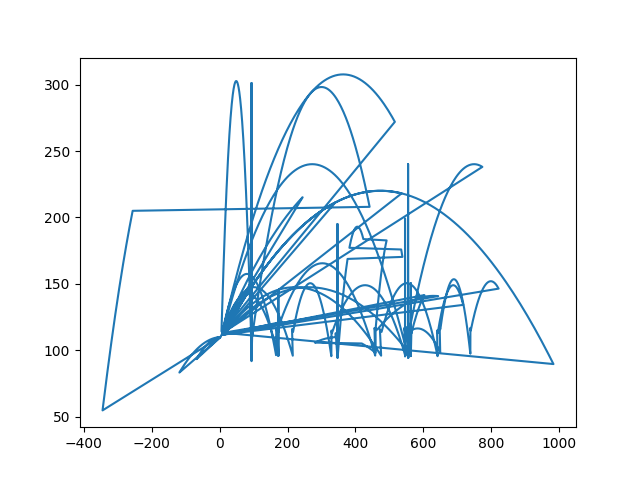
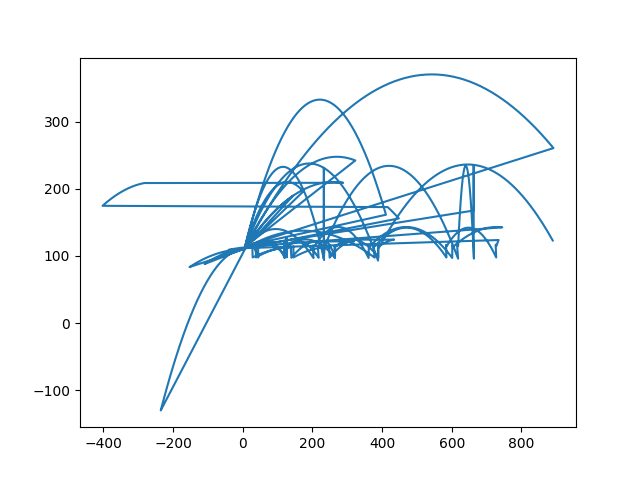
improved input logic

diff --git a/prototype2.py b/prototype2.py
@@ -36,29 +36,35 @@ class Ball():
         return mousex,mousey
     
     def movement(self,ball_r2,hvelocity,vvelocity,duration,first,back):
-        while pygame.Rect.contains(ground,ball_r2) == False: # needs to show the motion also
-            if first == True:
-                mag = math.sqrt(hvelocity**2+vvelocity**2)
-                velocities.append(mag)
-                first = False
-            duration+=0.1
-            time.append(duration)
-            distancex = (hvelocity/2)*duration            
-            distancey = ((vvelocity/2)*duration)+((-4.9 * (duration**2))/2)
-            if back == True:
-                newx = ((b.ball_r.x)-distancex)
-                back = False
-            else:
-                newx = ((b.ball_r.x)+distancex)
-            x.append(newx)
-            newy = (b.ball_r.y-distancey)
-            y.append(height-newy)
-            ball_r2 = pygame.Rect(newx,newy,10,10)
-            t.sleep(0.1)   
+        if first == True:
+            statichvel = hvelocity # changing velocity
+            staticvvel = vvelocity
+            mag = math.sqrt(statichvel**2+staticvvel**2)
+            velocities.append(mag)
+            first = False
+        duration+=0.1
+        time.append(duration)
+        distancex = (statichvel/2)*duration            
+        distancey = ((staticvvel/2)*duration)+((-4.9 * (duration**2))/2)
+        if back == True:
+            newx = ((b.ball_r.x)-distancex)
+            back = False
+        else:
+            newx = ((b.ball_r.x)+distancex)
+        x.append(newx)
+        newy = (b.ball_r.y-distancey)
+        y.append(height-newy)
+        ball_r2 = pygame.Rect(newx,newy,10,10)
+        pygame.draw.rect(window,g.black,ball_r2) # need to stop multiple balls
+        pygame.display.update()
+        clock.tick(fps)
+        t.sleep(0.1)
         return duration,ball_r2,back
 
-    def reset(self): # bad and still changing velocity
+    def reset(self):
         duration = 0
+        b.ball_r.x = 5
+        b.ball_r.y = height-110
         self.newx = b.ball_r.x
         self.newy = b.ball_r.y
         self.stop = False
@@ -95,9 +101,9 @@ class Calculations():
         return hdistance,vdistance
     
     def graphs(self,x,y):
-        plt.plot(x,y)
-        plt.savefig("xy.png")
-        plt.plot(velocities,time)
+        #plt.plot(x,y)
+        #plt.savefig("xy.png")
+        plt.plot(velocities,time) # graph not going through x axis
         plt.savefig("velocitytime.png")
 
 class Graphics():
@@ -177,7 +183,8 @@ def mainloop():
         if keys[pygame.K_a]:
             first,duration,ball_r2.x,ball_r2.y = b.reset()
         if keys[pygame.K_SPACE]:
-            duration,ball_r2,back = b.movement(ball_r2,hvelocity,vvelocity,duration,first,back)
+            while pygame.Rect.contains(ground,ball_r2) == False:
+                duration,ball_r2,back = b.movement(ball_r2,hvelocity,vvelocity,duration,first,back)
         if pygame.Rect.contains(ground,ball_r2):
             first = True
             duration = 0
